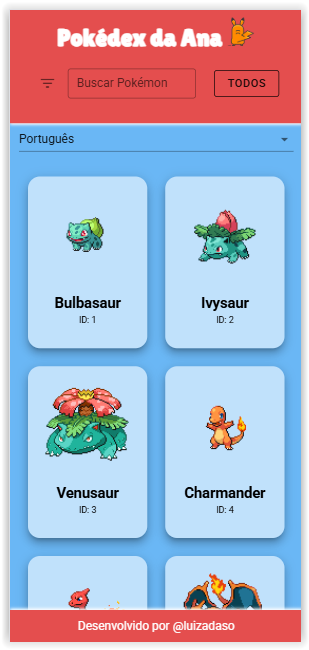
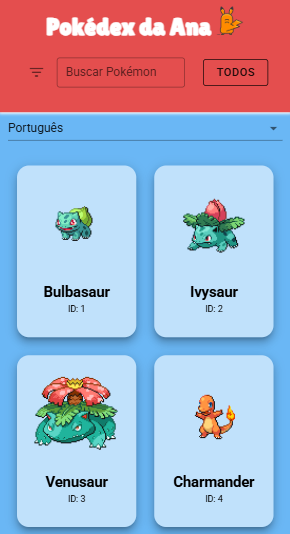
Redimensionar imagens dos projetos, centralizar containers para telas pequenas.

diff --git a/src/pages/Projetos.js b/src/pages/Projetos.js
@@ -19,7 +19,7 @@ function Projetos() {
           <img
             src={amigoSecreto}
             alt="amigo-secreto"
-            className="img-fluid ms-1"
+            className="imagens-projetos img-fluid ms-1"
           />
         </a>
           <Button className="buttons-cards-inferiores" href="https://luizadaso.github.io/Projeto-Challenge-Amigo-Secreto/">
@@ -37,7 +37,7 @@ function Projetos() {
           <img
             src={pokedex}
             alt="pokedex"
-            className="img-fluid ms-1"
+            className="imagens-projetos img-fluid ms-1"
           />
         </a>
           <Button className="buttons-cards-inferiores" href="https://pokedex-da-ana.vercel.app/">
@@ -55,7 +55,7 @@ function Projetos() {
           <img
             src={telaLogin}
             alt="amigo-secreto"
-            className="img-fluid ms-1"
+            className="imagens-projetos img-fluid ms-1"
           />
         </a>
           <Button className="buttons-cards-inferiores" href="https://github.com/luizadaso/Tela-de-Login-e-Recuperacao-de-Senha">

diff --git a/src/pages/Projetos.css b/src/pages/Projetos.css
@@ -17,6 +17,10 @@
     margin-bottom: 15px;
     padding: 20px;
   }
+
+  .imagens-projetos {
+    width: 28vh;
+  }
   
   .buttons-cards-inferiores {
     background-color: transparent;
@@ -34,6 +38,7 @@
 
   @media (max-width: 600px) {
     .cards-inferiores {
-      width: 90%;
+      width: 100%;
     }
+
   }

diff --git a/src/App.css b/src/App.css
@@ -23,6 +23,7 @@
 }
 
 body {
+  align-items: center;
   background: var(--primary-color);
   margin: 0px;
 }
